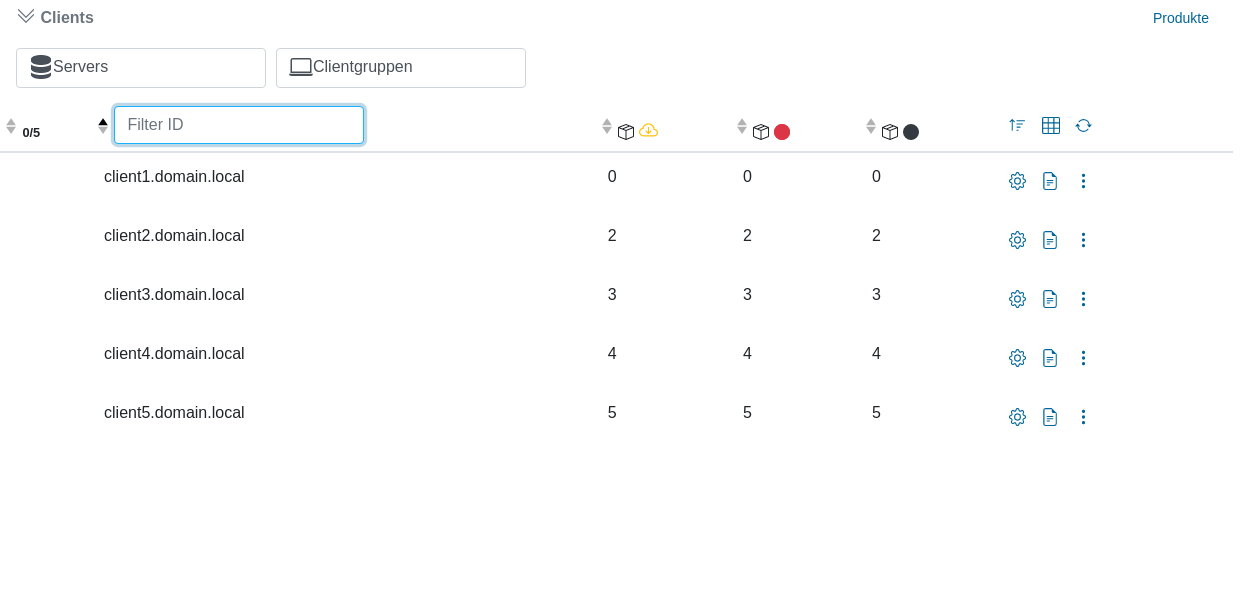
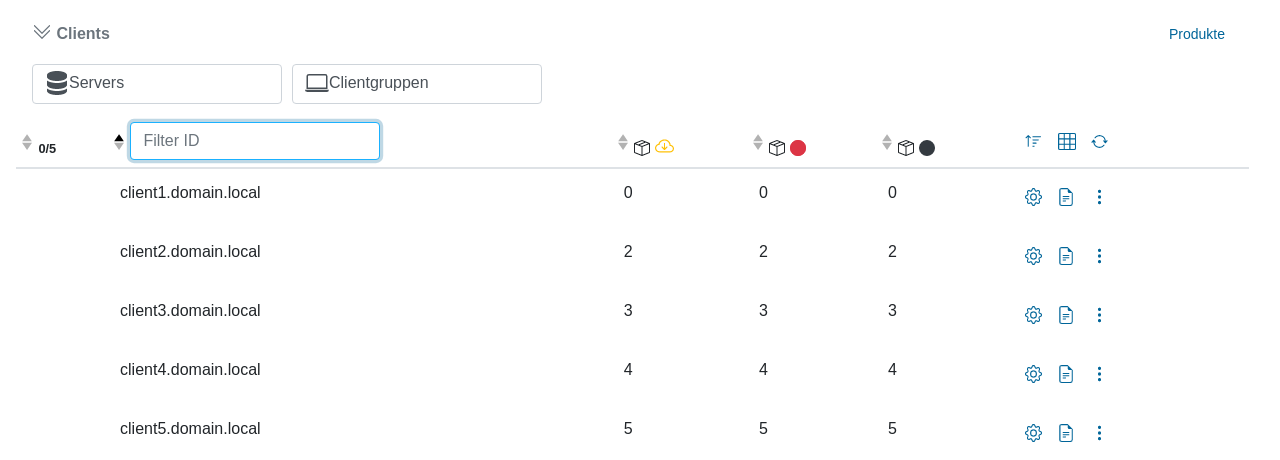
[chg] update screenshots4Doc scripts
Former-commit-id: f1c836e1eeb7d0f01fc8bc4077903f1f98dfac10

diff --git a/opsiweb/screenshots4Docs/take_screenshots/config.test.screenshot.js b/opsiweb/screenshots4Docs/take_screenshots/config.test.screenshot.js
@@ -3,11 +3,12 @@ const { callStoryId } = require('../../uib-components/.utils/playwright/pw-story
 const en = require('../../uib-components/locale/en.json')
 const de = require('../../uib-components/locale/de.json')
 
-test('Host Attributes', async ({ page }) => {
-  await callStoryId(page, 'form-f-host-attributes', 'f-host-attributes')
-  const component = await page.locator('[data-testid="FHostAttributes"]')
+test('Client Configuration', async ({ page }) => {
+  await callStoryId(page, 'view-v-config', 'v-config-clients')
+  const component = await page.locator('[data-testid="VConfig"]')
   await (new Promise(resolve => setTimeout(resolve, 1000)))
-  // await page.evaluate((val) => { document.querySelector('.hostattr').innerHTML = val }, en['title.hostattr'])
+  await page.evaluate((val) => { document.querySelector('.hostattr').innerHTML = val }, en['title.hostattr'])
+  await page.evaluate((val) => { document.querySelector('.hostparam').innerHTML = val }, en['title.hostparam'])
   await page.evaluate((val) => { document.querySelector('.id').innerHTML = val }, en['table.fields.id'])
   await page.evaluate((val) => { document.querySelector('.type').innerHTML = val }, en['table.fields.type'])
   await page.evaluate((val) => { document.querySelector('.description').innerHTML = val }, en['table.fields.description'])
@@ -19,8 +20,9 @@ test('Host Attributes', async ({ page }) => {
   await page.evaluate((val) => { document.querySelector('.lastSeen').innerHTML = val }, en['table.fields.lastSeen'])
   await page.evaluate((val) => { document.querySelector('.hostKey').innerHTML = val }, en['table.fields.hostKey'])
   await page.evaluate((val) => { document.querySelector('.otp').innerHTML = val }, en['table.fields.otp'])
-  await component.screenshot({ path: './screenshots/en/opsi-webgui_hostattributes.png' })
-  // await page.evaluate((val) => { document.querySelector('.hostattr').innerHTML = val }, de['title.hostattr'])
+  await component.screenshot({ path: './screenshots/en/opsi-webgui_clientconfig.png' })
+  await page.evaluate((val) => { document.querySelector('.hostattr').innerHTML = val }, de['title.hostattr'])
+  await page.evaluate((val) => { document.querySelector('.hostparam').innerHTML = val }, de['title.hostparam'])
   await page.evaluate((val) => { document.querySelector('.type').innerHTML = val }, de['table.fields.type'])
   await page.evaluate((val) => { document.querySelector('.description').innerHTML = val }, de['table.fields.description'])
   await page.evaluate((val) => { document.querySelector('.notes').innerHTML = val }, de['table.fields.notes'])
@@ -29,13 +31,5 @@ test('Host Attributes', async ({ page }) => {
   await page.evaluate((val) => { document.querySelector('.lastSeen').innerHTML = val }, de['table.fields.lastSeen'])
   await page.evaluate((val) => { document.querySelector('.hostKey').innerHTML = val }, de['table.fields.hostKey'])
   await page.evaluate((val) => { document.querySelector('.otp').innerHTML = val }, de['table.fields.otp'])
-  // await page.evaluate((val) => { document.querySelector('.type').setAttribute('data-label', val) }, de['table.fields.type'])
-  // await page.evaluate((val) => { document.querySelector('.description').setAttribute('data-label', val) }, de['table.fields.description'])
-  // await page.evaluate((val) => { document.querySelector('.notes').setAttribute('data-label', val) }, de['table.fields.notes'])
-  // await page.evaluate((val) => { document.querySelector('.inventNum').setAttribute('data-label', val) }, de['table.fields.inventNum'])
-  // await page.evaluate((val) => { document.querySelector('.created').setAttribute('data-label', val) }, de['table.fields.created'])
-  // await page.evaluate((val) => { document.querySelector('.lastSeen').setAttribute('data-label', val) }, de['table.fields.lastSeen'])
-  // await page.evaluate((val) => { document.querySelector('.hostKey').setAttribute('data-label', val) }, de['table.fields.hostKey'])
-  // await page.evaluate((val) => { document.querySelector('.otp').setAttribute('data-label', val) }, de['table.fields.otp'])
-  await component.screenshot({ path: './screenshots/de/opsi-webgui_hostattributes.png' })
+  await component.screenshot({ path: './screenshots/de/opsi-webgui_clientconfig.png' })
 })

diff --git a/opsiweb/screenshots4Docs/take_screenshots/products.test.screenshot.js b/opsiweb/screenshots4Docs/take_screenshots/products.test.screenshot.js
@@ -9,14 +9,30 @@ test('Products', async ({ page }) => {
   await page.evaluate((val) => { document.querySelector('.tableheader_title').innerHTML = val }, en['title.products'])
   await page.evaluate((val) => { document.getElementById('treeselect-Depots').innerHTML = val }, en['title.depots'])
   await page.evaluate((val) => { document.getElementById('treeselect-HostGroups').innerHTML = val }, en['treeselect.clientGroups'])
-  await page.evaluate((val) => { document.getElementById('treeselect-HostGroups').innerHTML = val }, en['treeselect.prodGroups'])
+  await page.evaluate((val) => { document.getElementById('treeselect-ProductGroups').innerHTML = val }, en['treeselect.prodGroups'])
   await component.evaluate(() => { document.querySelector('.count').innerHTML = '0/3' })
   await component.evaluate(() => { document.querySelector('.localboot').innerHTML = 'Localboot(3)' })
   await component.evaluate(() => { document.querySelector('.netboot').innerHTML = 'Netboot(7)' })
   await component.evaluate(() => { document.querySelector('.filter').placeholder = 'Filter ID' })
-  await component.screenshot({ path: './screenshots/en/opsi-webgui_products.png' })
-  await page.evaluate((val) => { document.querySelector('.nav-title').innerHTML = val }, de['title.products'])
-  await page.evaluate((val) => { document.querySelector('.tableheader_hostgroup').innerHTML = val }, de['treeselect.clientGroups'])
-  await page.evaluate((val) => { document.querySelector('.tableheader_productgroup').innerHTML = val }, de['treeselect.prodGroups'])
-  await component.screenshot({ path: './screenshots/de/opsi-webgui_products.png' })
+  await page.screenshot({
+    path: './screenshots/en/opsi-webgui_products.png',
+    clip: {
+      x: 5,
+      y: 5,
+      width: 1200,
+      height: 430
+    }
+  })
+  await page.evaluate((val) => { document.querySelector('.tableheader_title').innerHTML = val }, de['title.products'])
+  await page.evaluate((val) => { document.getElementById('treeselect-HostGroups').innerHTML = val }, de['treeselect.clientGroups'])
+  await page.evaluate((val) => { document.getElementById('treeselect-ProductGroups').innerHTML = val }, de['treeselect.prodGroups'])
+  await page.screenshot({
+    path: './screenshots/de/opsi-webgui_products.png',
+    clip: {
+      x: 5,
+      y: 5,
+      width: 1200,
+      height: 430
+    }
+  })
 })

diff --git a/opsiweb/screenshots4Docs/take_screenshots/clientcreation.test.screenshot.js b/opsiweb/screenshots4Docs/take_screenshots/clientcreation.test.screenshot.js
@@ -6,6 +6,7 @@ const de = require('../../uib-components/locale/de.json')
 test('Client Creation', async ({ page }) => {
   await callStoryId(page, 'view-v-client-creation', 'v-client-creation')
   const component = await page.locator('[data-testid="VClientCreation"]')
+  await page.click('[data-testid="AAlert"] .close')
   await (new Promise(resolve => setTimeout(resolve, 1000)))
   await page.evaluate((val) => { document.querySelector('.id').innerHTML = val }, en['table.fields.id'])
   await component.evaluate(() => { document.querySelector('.domainName').placeholder = '.domain.local' })
@@ -25,15 +26,6 @@ test('Client Creation', async ({ page }) => {
   await page.evaluate((val) => { document.querySelector('.clientagent').innerHTML = val }, en['table.fields.clientagent'])
   await page.evaluate((val) => { document.querySelector('.resetButton').innerHTML = val }, en['button.reset'])
   await page.evaluate((val) => { document.querySelector('.addButton').innerHTML = val }, en['button.create'])
-  // await page.screenshot({
-  //   path: './screenshots/en/opsi-webgui_clientcreation.png',
-  //   clip: {
-  //     x: 0,
-  //     y: 85,
-  //     width: 1200,
-  //     height: 1700
-  //   }
-  // })
   await component.screenshot({ path: './screenshots/en/opsi-webgui_clientcreation.png' })
   await page.evaluate((val) => { document.querySelector('.description').innerHTML = val }, de['table.fields.description'])
   await page.evaluate((val) => { document.querySelector('.inventNum').innerHTML = val }, de['table.fields.inventNum'])

diff --git a/opsiweb/screenshots4Docs/take_screenshots/clients.test.screenshot.js b/opsiweb/screenshots4Docs/take_screenshots/clients.test.screenshot.js
@@ -13,8 +13,24 @@ test('Clients', async ({ page }) => {
   await page.evaluate((val) => { document.querySelector('.tableheader_products').innerHTML = val }, en['title.products'])
   await component.evaluate(() => { document.querySelector('.count').innerHTML = '0/5' })
   await component.evaluate(() => { document.querySelector('.filter').placeholder = 'Filter ID' })
-  await component.screenshot({ path: './screenshots/en/opsi-webgui_clients.png' })
+  await page.screenshot({
+    path: './screenshots/en/opsi-webgui_clients.png',
+    clip: {
+      x: 0,
+      y: 0,
+      width: 1400,
+      height: 460
+    }
+  })
   await page.evaluate((val) => { document.getElementById('treeselect-HostGroups').innerHTML = val }, de['treeselect.clientGroups'])
   await page.evaluate((val) => { document.querySelector('.tableheader_products').innerHTML = val }, de['title.products'])
-  await component.screenshot({ path: './screenshots/de/opsi-webgui_clients.png' })
+  await page.screenshot({
+    path: './screenshots/de/opsi-webgui_clients.png',
+    clip: {
+      x: 0,
+      y: 0,
+      width: 1400,
+      height: 460
+    }
+  })
 })
